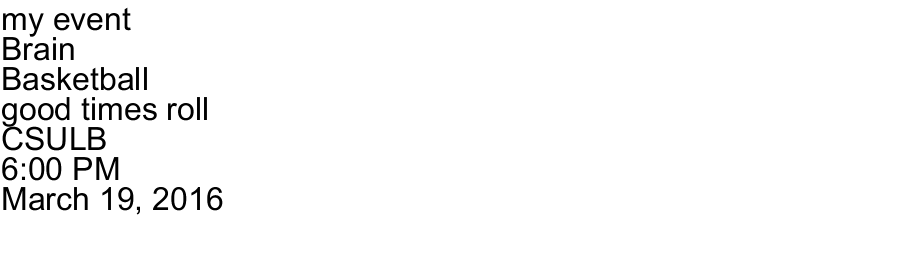
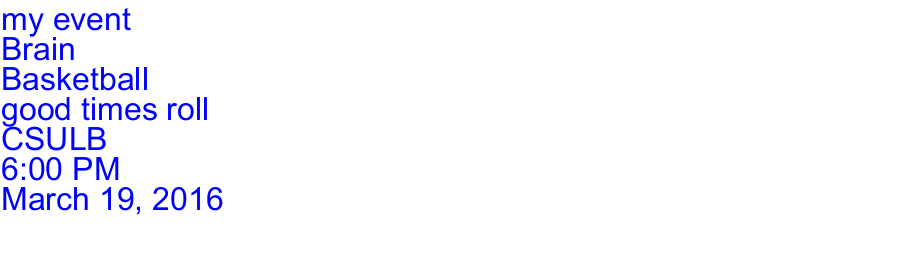
added flyer. now you can add text to an image to create a flyer

Changed region(s): [[0.0, 0.0301, 0.2437, 0.812]]

diff --git a/Text2Image/src/TextToImage.java b/Text2Image/src/TextToImage.java
@@ -1,6 +1,7 @@
 import java.awt.Color;
 import java.awt.Font;
 import java.awt.FontMetrics;
+import java.awt.Graphics;
 import java.awt.Graphics2D;
 import java.awt.RenderingHints;
 import java.awt.image.BufferedImage;
@@ -116,9 +117,9 @@ public class TextToImage {
 		return arr;
 	}
 	
-	public void createImage(Event _event)
+	public void createImage(Event event)
 	{
-        String[] _stringArray = makeEventArray(_event);
+        String[] stringArray = makeEventArray(event);
    
         /*
            Because font metrics is based on a graphics context, we need to create
@@ -130,8 +131,8 @@ public class TextToImage {
         Font font = new Font("Arial", Font.PLAIN, 32); //48
         g2d.setFont(font);
         FontMetrics fm = g2d.getFontMetrics();
-        int width = fm.stringWidth(_event.toString());
-        int height = fm.getHeight()*getLines(_event);
+        int width = fm.stringWidth(event.toString());
+        int height = fm.getHeight()*getLines(event);
         g2d.dispose();
 
         img = new BufferedImage(width, height, BufferedImage.TYPE_INT_ARGB);
@@ -146,29 +147,70 @@ public class TextToImage {
         g2d.setRenderingHint(RenderingHints.KEY_STROKE_CONTROL, RenderingHints.VALUE_STROKE_PURE);
         g2d.setFont(font);
         fm = g2d.getFontMetrics();
-        g2d.setColor(Color.BLACK);
+        g2d.setColor(Color.BLUE);
         
         // this is the text to image, it creates a graphic then saves it to a png
         int line = 1;
-        for(int i = 0; i < _stringArray.length; i++)
+        for(int i = 0; i < stringArray.length; i++)
         {
-        	if(!_stringArray[i].isEmpty() && _stringArray[i] != null)
+        	if(!stringArray[i].isEmpty() && stringArray[i] != null)
         	{
-        		g2d.drawString(_stringArray[i], 1, fm.getAscent()*line);
+        		g2d.drawString(stringArray[i], 1, fm.getAscent()*line);
         		++line;
         	}
         }
 
+    	String name = event.getName();
+    	if(name.contains(" "))
+    	{
+    		name = name.replaceAll("\\s", "");
+    	}
+    	
         g2d.dispose();
         try {
-        	String name = _event.getName();
-        	if(name.contains(" "))
-        	{
-        		name = name.replaceAll("\\s", "");
-        	}
             ImageIO.write(img, "png", new File(name+"_pevent.png"));
         } catch (IOException ex) {
             ex.printStackTrace();
         }
+	}
+	
+	public void createFlyer(Event event)
+	{
+		BufferedImage image;
+		try {
+			image = ImageIO.read(new File("images/field.png"));
+			
+		    Graphics g = image.getGraphics();
+		    g.setFont(g.getFont().deriveFont(30f));
+		    
+		    int width = image.getWidth();
+		    
+		    String[] stringArray = makeEventArray(event);
+		    
+	        int line = 1;
+	        for(int i = 0; i < stringArray.length; i++)
+	        {
+	        	if(!stringArray[i].isEmpty() && stringArray[i] != null)
+	        	{
+	        		g.drawString(stringArray[i], (width/3), (line+3)*30);
+	        		++line;
+	        	}
+	        }
+		    
+		    g.dispose();
+		    
+	    	String name = event.getName();
+	    	if(name.contains(" "))
+	    	{
+	    		name = name.replaceAll("\\s", "");
+	    	}
+	 
+		    ImageIO.write(image, "png", new File(name+"_pevent_flyer.png"));
+		} catch (IOException e) {
+			// TODO Auto-generated catch block
+			e.printStackTrace();
+		}
+
+
 	}
 }

diff --git a/Text2Image/src/Tester.java b/Text2Image/src/Tester.java
@@ -7,6 +7,8 @@ public class Tester {
     	Event _event = new Event("my event", "good times roll", 50.0, 50.0, "CSULB", "40", 
                 "15", "Brain", "Basketball", "M", "12", "2",
                 "2016 3 19", "2016 3 19", "6:00 PM", "false", "0");
-    	t2i.createImage(_event);
+
+//    	t2i.createImage(_event); // creates image with transparent bkg from text
+//    	t2i.createFlyer(_event); // adds text to image to create a flyer
     }
 }
